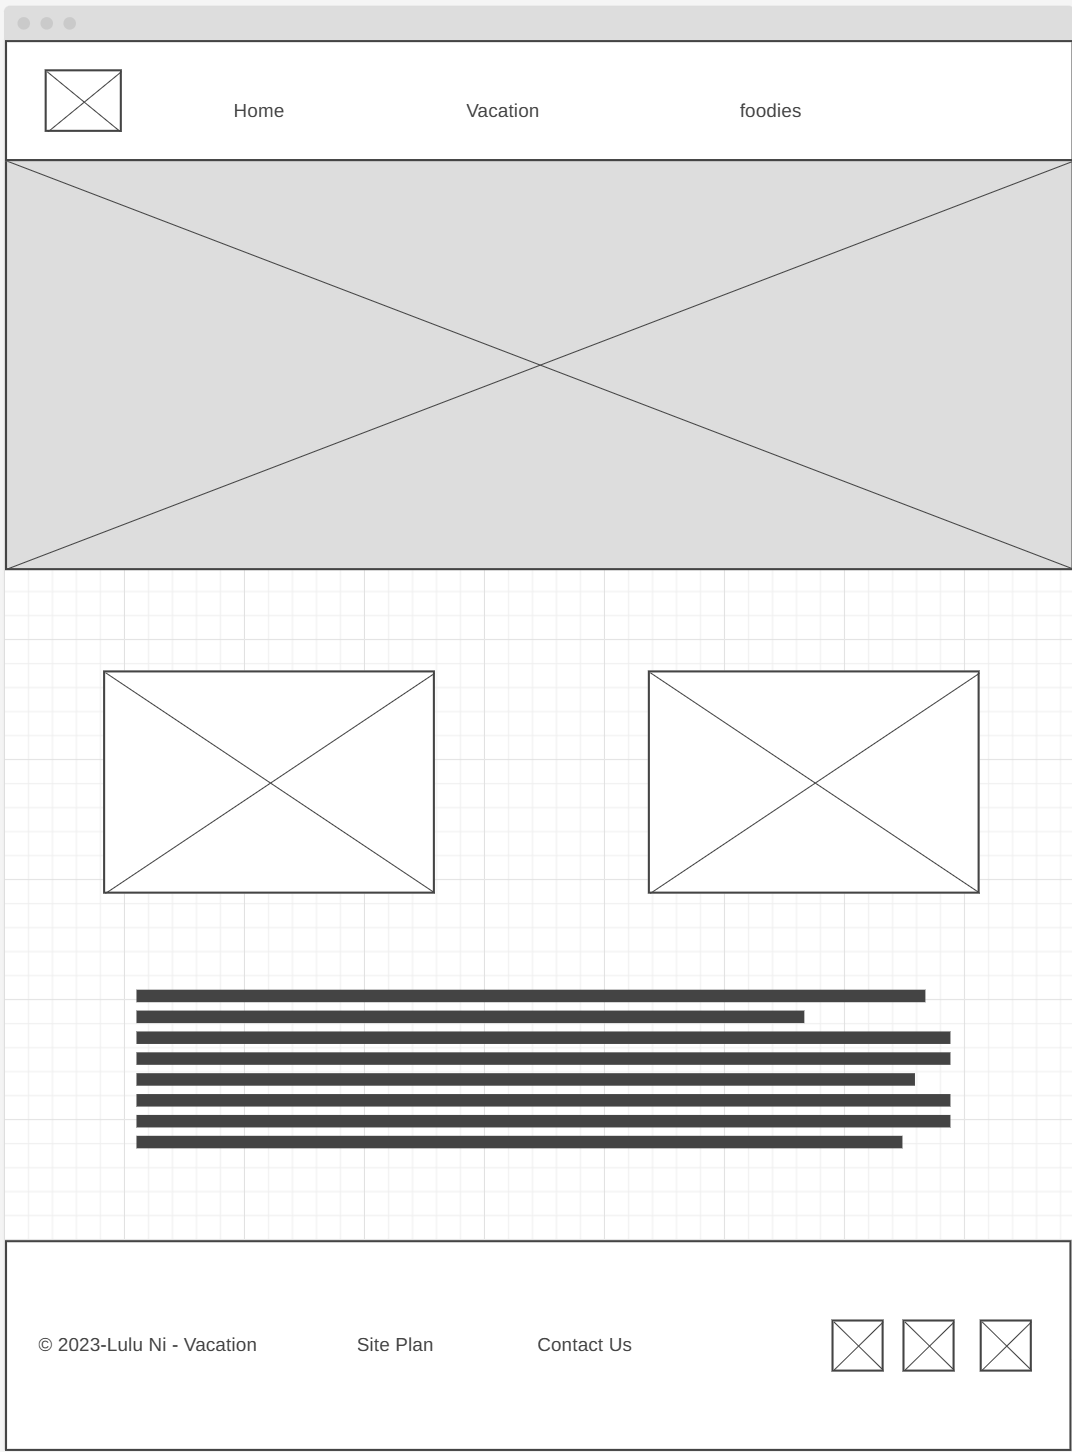
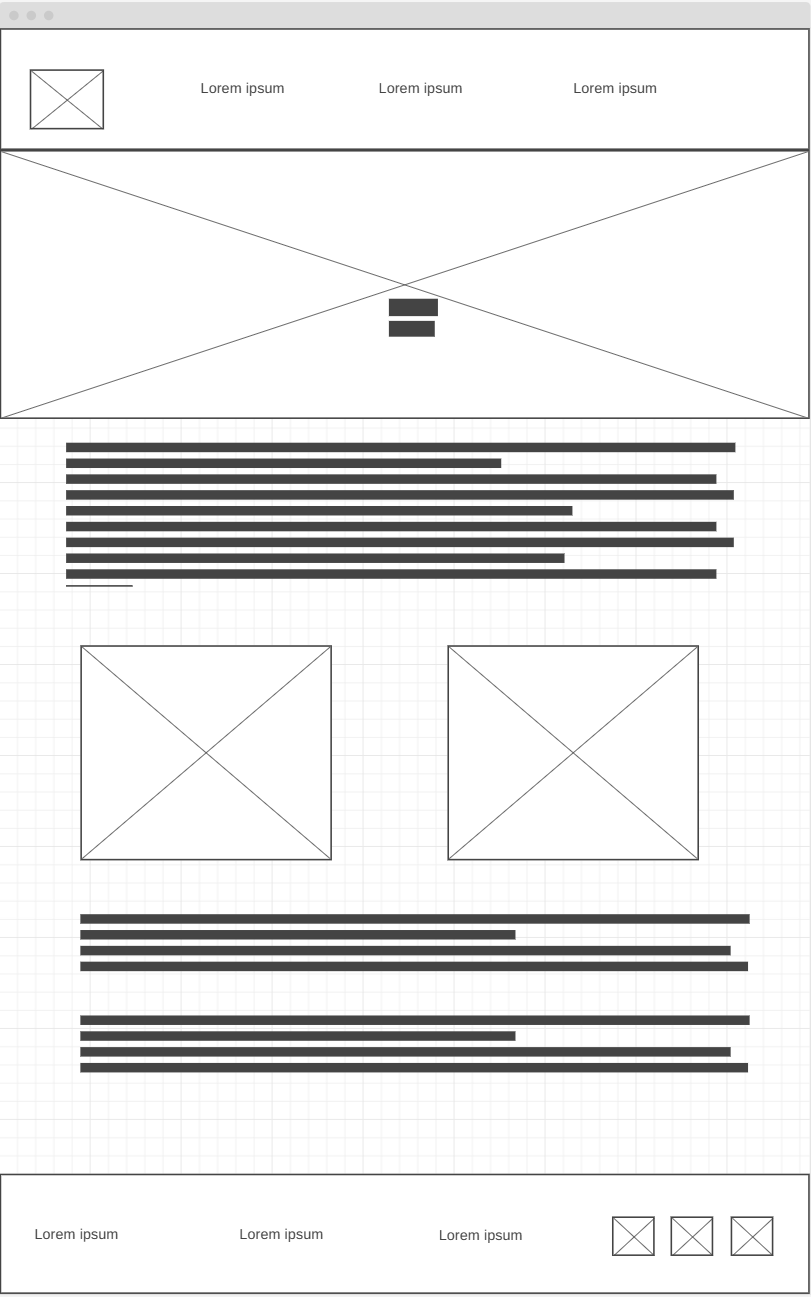
11

diff --git a/vacation/index.html b/vacation/index.html
@@ -7,54 +7,71 @@
     <link rel="stylesheet" href="styles/style.css" >
 </head>
 <body>
-    <div id="content">
-    <header>
-        <a id="logo_link" href="index.html">
-            
-            <img class="logo" src="images/logo4.png" alt="logo">
-        </a>
-        <nav>
-            <a href="index.html">Home</a>
-            <a href="outdoor-adventage.html" id="firsttime">Adventures</a>
-            <a href="foodies.html">Foodies</a>                                      
-        </nav> 
-    </header> 
-    <div id="sunset">
-      <div id="sunset-box"> 
-        <img id="sunset-img" src="images/hawaii.jpg"  alt="Sunset">    
-    </div>
-    <section id="sunset-msg">
-        <h1 class="home-title">Welcome to O'ahu</h1>
-        <h4>Enjoy stunning sunrises and sunsets </h4>
-        <div class='button-box'>
-            <a class='book' href="contactus.html">Book Now</a>
-        </div> 
-    </section>
-                 
-<main>  
-</div>	
-<div id="left">
-    <img src="images/beach.jpg" alt="beach" id="beachview" width="800" height="600">
-</div>
-<div id="right">
-    <img src="images/Hawaii-Guide-Oahu-Road-Map-v6.png" alt="map" id="oahumap" width="800" height="600">
-</div>
-
-    <div id="beachviewlocation">
-        <a  id="hotel" href="https://www.hawaii-guide.com/oahu/where-to-stay-oahu"> Stay on Oahu</a>
-        <ul>
-            <li>Top 3 Reasons to go to Oahu</li>
-            <li>Sunny weather
-                Unlike other parts of the United States, it is sunny and warm almost all year round. The vegetation on the island is still lush and green, and the waterfalls are flowing. You can not only enjoy sunbathing, but also swim and surf!</li>
-            <li>There won't be too many people - feel at ease
-                A very important reason is that you can truly enjoy the leisure time on vacation and enjoy a slow life.</li>
-             <li>Unique tropical rainforest scenery
-                The most beautiful thing about Hawaii is that in addition to its countless beaches and endless coastline, it also has unique tropical rainforest scenery. After admiring the endless coastline, the lush green will surprise you as if you were a child discovering a treasure.</li>
-         </ul>
-    </div>                   
-</main>
-        <footer>
-            <p>&copy; 2023-Lulu Ni - Vacation</p>
+        <div id="content">
+        <header>
+            <a id="logo_link" href="index.html">
+                <img class="logo" src="images/logo4.png" alt="logo">
+            </a>
+            <nav>
+                <a href="index.html">Home</a>
+                <a href="outdoor-adventage.html" id="firsttime">Adventures</a>
+                <a href="foodies.html">Foodies</a>                                      
+            </nav> 
+        </header> 
+        <div id="sunset">
+            <div id="sunset-box"> 
+            <img id="sunset-img" src="images/hawaii.jpg"  alt="Sunset">    
+        </div>
+        <section id="sunset-msg">
+              <h1 class="home-title">Welcome to O'ahu</h1>
+              <h4>Enjoy stunning sunrises and sunsets </h4>  
+              <div class='button-box'>
+                <a class='book' href="contactus.html">Book Now</a> 
+             </div> 
+        </section>
+        </div>
+                         
+        <main>
+            <div class="content-msg">
+	        <p> Aloha and welcome to the Oahu!  The warm days, peaceful nights and plumeria-scented breezes make Hawaii one of the most pleasant places in the world to visit.Sometimes called “The Gathering Place,” Oahu certainly lives up to its name. The third largest Hawaiian island is home to the majority of Hawaii's diverse population, a fusion of East and West cultures rooted in the values and traditions of the Native Hawaiian people. </p>
+                <p> It's this fundamental contrast between the ancient and the modern that makes discovering Oahu — from bustling city life to laidback surf towns — so enjoyable. You'll find plenty of different options for exploring Oahu's different regions, the island's many activities, its eclectic restaurants and accommodations.Experience Hawaii through the eyes of a local private guide! Browse our tour 'suggestions' - each can be customized just for you. Discover the island's hidden gems, local stories, natural wonders and cultural hotspots on a private Hawaii tour. Our Hawaii guides will ensure you receive a warm welcome wherever you go! Let's go! </p>
+			</div>
+			<div id="choose">
+                <div id="choose-box">
+				<div id="left">
+					<img src="images/beach.jpg" alt="beach" id="beachview" width="800" height="600">
+				</div>
+				<div id="right">
+					<img src="images/Hawaii-Guide-Oahu-Road-Map-v6.jpg" alt="map" id="oahumap" width="800" height="600">
+				</div>
+				
+                </div>
+			</div>
+			<div id="beachviewlocation">
+                <a href=https://travelhawaiiwithus.com/oahu-beaches/ class="button">Best Oahu Beaches</a>
+				<ul>
+					<li>Top 3 Reasons to go to Oahu</li>
+					<li>Sunny weather
+                        Unlike other parts of the United States, it is sunny and warm almost all year round. The vegetation on the island is still lush and green, and the waterfalls are flowing. You can not only enjoy sunbathing, but also swim and surf!</li>
+					<li>There won't be too many people - feel at ease
+                        A very important reason is that you can truly enjoy the leisure time on vacation and enjoy a slow life.</li>
+                     <li>Unique tropical rainforest scenery
+                        The most beautiful thing about Hawaii is that in addition to its countless beaches and endless coastline, it also has unique tropical rainforest scenery. After admiring the endless coastline, the lush green will surprise you as if you were a child discovering a treasure.</li>
+                 </ul>
+			</div>
+			<div id="oahumaplocation">
+                <a href="https://www.hawaii-guide.com/oahu/where-to-stay-oahu" class="button"> Stay on Oahu</a>
+				<ul>
+					<li>Reasons to Choose Us</li>
+					<li>Only serve small groups to better plan travel routes and ensure service quality.</li>
+					<li>Our tour guides are locals and we know where there is fun and delicious food.</li>
+                    <li>Only serve small groups to better plan travel routes and ensure service quality.</li>
+				</ul>
+			</div>
+           
+              
+        </main> 
+        <footer><p>&copy; 2023-Lulu Ni - Vacation</p>
             <p ><a href="site-plan-vacation.html">Site Plan</a></p>
             <p ><a href="contactus.html">Contact Us</a></p>
             <div class="social">
@@ -69,8 +86,6 @@
                 </a>
             </div>
         </footer> 
-    </div>
+</div>                               
 </body>
 </html>
-
-

diff --git a/vacation/firstindex.html b/vacation/firstindex.html
@@ -1,0 +1,75 @@
+<!DOCTYPE html>
+<html lang="en">
+<head>
+    <meta charset="UTF-8">
+    <meta name="viewport" content="width=device-width, initial-scale=1.0">
+    <title>Vacation Homepage</title>
+    <link rel="stylesheet" href="styles/style.css" >
+</head>
+<body>
+    <div id="content">
+    <header>
+        <a id="logo_link" href="index.html">
+            <img class="logo" src="images/logo4.png" alt="logo">
+        </a>
+        <nav>
+            <a href="index.html">Home</a>
+            <a href="outdoor-adventage.html" id="firsttime">Adventures</a>
+            <a href="foodies.html">Foodies</a>                                      
+        </nav> 
+    </header> 
+    <div id="sunset">
+      <div id="sunset-box"> 
+        <img id="sunset-img" src="images/hawaii.jpg"  alt="Sunset">    
+    </div>
+    <section id="sunset-msg">
+        <h1 class="home-title">Welcome to O'ahu</h1>
+        <h4>Enjoy stunning sunrises and sunsets </h4>
+        <div class='button-box'>
+            <a class='book' href="contactus.html">Book Now</a>
+        </div> 
+    </section>
+    </div>            
+<main>  
+</div>	
+<div id="left">
+    <img src="images/beach.jpg" alt="beach" id="beachview" width="800" height="600">
+</div>
+<div id="right">
+    <img src="images/Hawaii-Guide-Oahu-Road-Map-v6.png" alt="map" id="oahumap" width="800" height="600">
+</div>
+
+    <div id="beachviewlocation">
+        <a  id="hotel" href="https://www.hawaii-guide.com/oahu/where-to-stay-oahu"> Stay on Oahu</a>
+        <ul>
+            <li>Top 3 Reasons to go to Oahu</li>
+            <li>Sunny weather
+                Unlike other parts of the United States, it is sunny and warm almost all year round. The vegetation on the island is still lush and green, and the waterfalls are flowing. You can not only enjoy sunbathing, but also swim and surf!</li>
+            <li>There won't be too many people - feel at ease
+                A very important reason is that you can truly enjoy the leisure time on vacation and enjoy a slow life.</li>
+             <li>Unique tropical rainforest scenery
+                The most beautiful thing about Hawaii is that in addition to its countless beaches and endless coastline, it also has unique tropical rainforest scenery. After admiring the endless coastline, the lush green will surprise you as if you were a child discovering a treasure.</li>
+         </ul>
+    </div>                   
+</main>
+        <footer>
+            <p>&copy; 2023-Lulu Ni - Vacation</p>
+            <p ><a href="site-plan-vacation.html">Site Plan</a></p>
+            <p ><a href="contactus.html">Contact Us</a></p>
+            <div class="social">
+                <a href="https://facebook.com" target="_blank">
+                    <img src="images/facebook.png" alt="fb icon">
+                </a>
+                <a href="https://twitter.com" target="_blank">
+                    <img src="images/twitter.png" alt="twitter icon" width="64" height="64">
+                </a>
+                <a href="https://instagram.com" target="_blank" >
+                    <img src="images/instagram.png" alt="instagram icon">
+                </a>
+            </div>
+        </footer> 
+    </div>
+</body>
+</html>
+
+

diff --git a/vacation/styles/style.css b/vacation/styles/style.css
@@ -86,7 +86,7 @@ nav a:hover
                         text-decoration: none;
                         font-size: 18px;
                         padding: 15px 30px;
-                        margin-top: 50px;
+                        margin-top: 30px;
                         border-radius: 5px;
                         line-height: 4em;  
 }
@@ -197,6 +197,8 @@ footer .social img
                         transition: transform .5s;
                         box-shadow: 5px 5px 10px #6f7364;
 }
+
+
 main section img 
 {
                         box-sizing: border-box;
@@ -225,9 +227,9 @@ nav
 {
                         grid-column: 2/3;
                         grid-row: 1/2;
-                        margin-top: 100px;
+                        margin-top: 15px;
                         color: white;
-                        margin-top: 100px
+                        
 }
 #sunset-box {
                         grid-column: 1/4;
@@ -289,12 +291,12 @@ nav
 .content-msg h2 {font-family: 'Rock Salt', 'Roboto','Young Serif' ;
 font-size: 15em;}
 
-#beachviewlocation{
+#beachviewlocation,#oahumaplocation{
   background-color:#b7dec8;
   line-height: 1.5em;
   padding: 35px;
   box-shadow: 5px 5px 10px #6f7364;
-  display: block;
+  display: inline-block;
   font-size: 25px;
   width: 80%;
   margin-top: 100px;
@@ -303,71 +305,59 @@ font-size: 15em;}
   color: rgb(137, 136, 136);  
 }
 
+#beachviewlocation{margin-left: 10%;
+  float: left;
+}
 
 
+
+#choose-box {
+  display: flex;
+  justify-content: center;
+  align-items: center;
+}
+
+#left, #right {
+  margin: 0 10px;
+}
 
 #left, #right
 {
 	display:inline-block;
-}
-
-
-#left{ width:48%;
-  font-size: 20px;
-  margin-left: 1%;
-  float: left;
-  text-align: center;
   margin-top: 50px;
+  box-shadow: 5px 5px 10px #6f7364; 
+  margin-left: 2%;
+  margin-right:1%;
+  justify-content: center;
+  align-items: center;
   
 }
 
-#right{ width:48%;
-  font-size: 20px;
-  margin-left: 1%;
-  float: right;
-  text-align: center;
-  margin-top: 50px; 
-  
-}
+#left{float:left}
+#right{margin-right: 2%;}
 
-#choice{width: 90%;
+
+
+
+
+
+
+
+  
+
+
+
+
+#choice{
+  width: 30%;
 }
-#beachviewlocation
+#beachviewlocation,#oahumaplocation
 {
-
 	margin-left:10%;
   display:inline-block;
 }
 
-#oahumaplocation li{
-  background-color:#9fa8a3;
-  line-height: 1.5em;
-  padding: 35px;
-  box-shadow: 5px 5px 10px #6f7364;
-}
-#oahumaplocation li {
-  background-color:#9fa8a3;
-  font-family: 'Young Serif','Roboto','Rock Salt' ;
-}
-#oahumaplocation li{color:white;
-  font-family: 'Young Serif','Roboto','Rock Salt' ;
-}
-#oahumaplocation li{
-text-align: left;}
 
-
-#oahumaplocation li{ 
-  font-size: 25px;
-  margin-top: 100px;
-  text-align: center; 
-  
-}
-#oahumaplocation li
-{
-  width: 80%;
-  display: block;
-  margin: 0 auto;
-}
 
 
 
@@ -388,7 +378,7 @@ text-align: left;}
       display: block;
       padding: 15px;
   }
-  #hero,#river {
+  #hero,#river,#left, #right {
       margin-top: 0;
   }
   #hero-msg,#river-msg {

diff --git a/vacation/foodies.html b/vacation/foodies.html
@@ -4,7 +4,7 @@
     <meta charset="UTF-8">
     <meta name="viewport" content="width=device-width, initial-scale=1.0">
     <title>Foodies</title>
-    <link rel="stylesheet" href="styles/style.css" >
+    <link rel="stylesheet" href="styles/beiyong.css" >
 </head>
 <body>
 

diff --git a/vacation/styles/beiyong.css b/vacation/styles/beiyong.css
@@ -292,7 +292,7 @@ font-size: 15em;}
   
 }
 
-#choice{width: 90%;}
+#choice{width: 30%;}
 #beachviewlocation
 {
 
